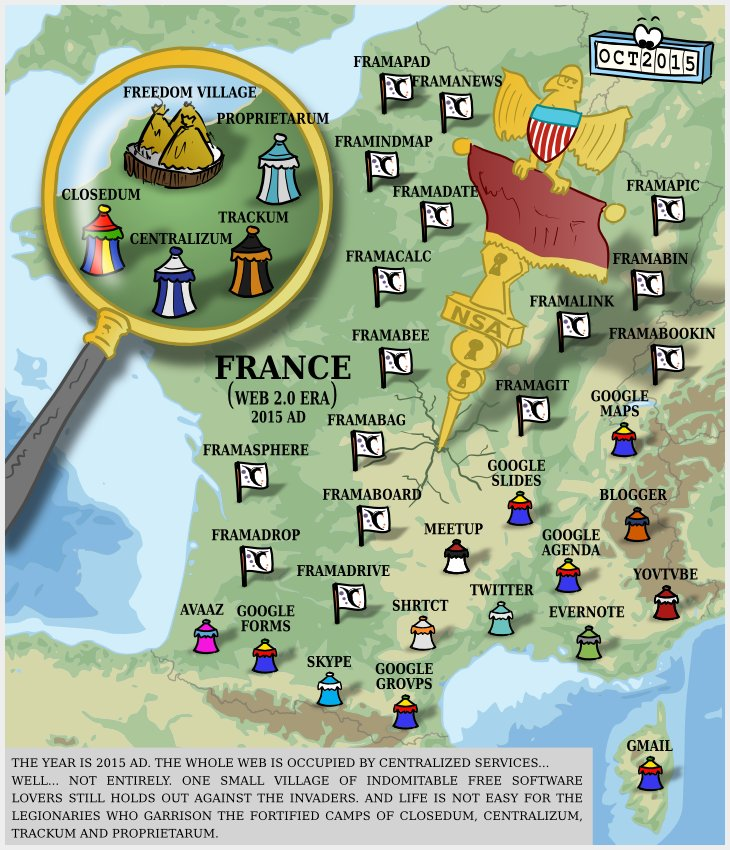
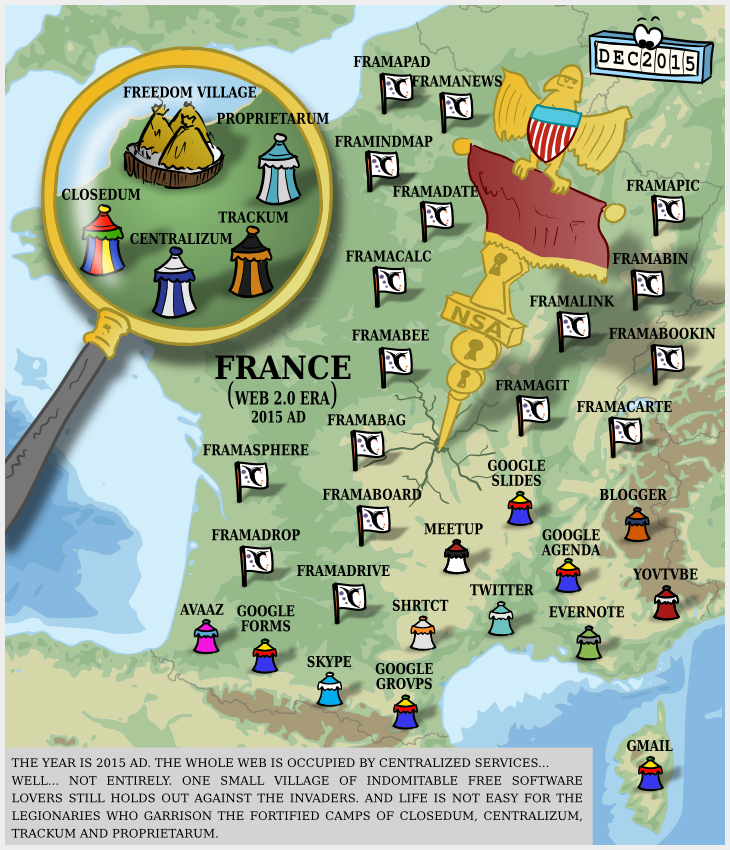
Sortie de Framacarte + Liste des alternatives dans l'entête

diff --git a/i18n/data.fr.php b/i18n/data.fr.php
@@ -321,18 +321,28 @@ $t['list']['css']        = '
 $t['list']['js']         = '
     <script src="'.$l['current'].'js/list.js" type="text/javascript"></script>
     <script src="'.$l['current'].'js/leds.js" type="text/javascript"></script>';
-$t['list']['alt1']       = 'Vous utilisez';
-$t['list']['alt2']       = ' recommande';
-$t['list']['alt3']       = 'repose sur ';
-$t['list']['altp1']      = $t['meta']['F'].' s’est donné comme objectif de <a href="'.$l['DIoL'].'">proposer une trentaine de services libres alternatifs</a>
+
+// Liste des alternatives
+$t['alt']['title']       = 'Liste des alternatives';
+$t['alt']['link']        = $l['current'].'alternatives';
+$t['alt']['desc']        = 'Liste des alternatives en ligne libres, éthiques, décentralisé et solidaires que Framasoft recommande pour dégoogliser internet';
+$t['alt']['css']         = '
+    <link href="'.$l['current'].'css/list.css" rel="stylesheet" type="text/css" />';
+$t['alt']['js']          = '
+    <script src="'.$l['current'].'js/list.js" type="text/javascript"></script>
+    <script src="'.$l['current'].'js/leds.js" type="text/javascript"></script>';
+$t['alt']['alt1']        = 'Vous utilisez';
+$t['alt']['alt2']        = ' recommande';
+$t['alt']['alt3']        = 'repose sur ';
+$t['alt']['altp1']       = $t['meta']['F'].' s’est donné comme objectif de <a href="'.$l['DIoL'].'">proposer une trentaine de services libres alternatifs</a>
                             face aux services qui aspirent nos données et nous enferment.<br>
                             Mais il existe bien d’autres services et acteurs qui œuvrent à dégoogliser internet.';
-$t['list']['altp2']      = 'Voici <a href="#tips" rel="nofollow">ci-dessous</a> une liste qui récapitule et complète les alternatives déjà présentées <a href="'.$l['DIo'].'">sur la page d’accueil</a>.
+$t['alt']['altp2']       = 'Voici <a href="#tips" rel="nofollow">ci-dessous</a> une liste qui récapitule et complète les alternatives déjà présentées <a href="'.$l['DIo'].'">sur la page d’accueil</a>.
                             Elle est inspirée de <a href="https://prism-break.org/fr/">Prism-Break</a> qui propose aussi d’autres logiciels dans des domaines plus pointus.';
-$t['list']['altp3']      = 'Dans cette liste, chaque service est généralement composé d’<b>un site web complexe</b> <span aria-hidden="true">(<i class="fa fa-fw fa-cloud"></i>)</span>
+$t['alt']['altp3']       = 'Dans cette liste, chaque service est généralement composé d’<b>un site web complexe</b> <span aria-hidden="true">(<i class="fa fa-fw fa-cloud"></i>)</span>
                             qui communique avec un <b>logiciel installé sur un ordinateur</b> <span aria-hidden="true">(<i class="fa fa-fw fa-server"></i>)</span> où se trouvent les données personnelles
                             et auxquels on accède via divers <b>outils installés chez soi</b> <span aria-hidden="true">(<i class="fa fa-fw fa-home"></i>)</span>.';
-$t['list']['altp4']      = 'Ainsi, lorsque nous utilisons internet, nous devons <b>accorder notre confiance à différents maillons de la chaîne</b>
+$t['alt']['altp4']       = 'Ainsi, lorsque nous utilisons internet, nous devons <b>accorder notre confiance à différents maillons de la chaîne</b>
                             qui nous relie aux données personnelles placées en ligne.
                             À moins de s’auto-héberger, <b>le <i lang="en">cloud</i> est toujours l’ordinateur de quelqu’un d’autre</b>.
                             Il est donc important de savoir à qui nous faisons confiance et ce que font les logiciels de nos données.';

diff --git a/i18n/data.en.php b/i18n/data.en.php
@@ -278,18 +278,28 @@ $t['list']['css']       = '
 $t['list']['js']        = '
     <script src="'.$l['current'].'js/list.js" typ e="text/javascript"></script>
     <script src="'.$l['current'].'js/leds.js" type="text/javascript"></script>';
-$t['list']['alt1']       = 'Vous utilisez';
-$t['list']['alt2']       = ' recommande';
-$t['list']['alt3']       = 'repose sur ';
-$t['list']['altp1']      = $t['meta']['F'].' s’est donné comme objectif de <a href="'.$l['DIoL'].'">proposer une trentaine de services libres alternatifs</a>
+
+// Liste des alternatives
+$t['alt']['title']       = 'Liste des alternatives';
+$t['alt']['link']        = $l['current'].'alternatives';
+$t['alt']['desc']        = 'Liste des alternatives en ligne libres, éthiques, décentralisé et solidaires que Framasoft recommande pour dégoogliser internet';
+$t['alt']['css']         = '
+    <link href="'.$l['current'].'css/list.css" rel="stylesheet" type="text/css" />';
+$t['alt']['js']          = '
+    <script src="'.$l['current'].'js/list.js" type="text/javascript"></script>
+    <script src="'.$l['current'].'js/leds.js" type="text/javascript"></script>';
+$t['alt']['alt1']        = 'Vous utilisez';
+$t['alt']['alt2']        = ' recommande';
+$t['alt']['alt3']        = 'repose sur ';
+$t['alt']['altp1']       = $t['meta']['F'].' s’est donné comme objectif de <a href="'.$l['DIoL'].'">proposer une trentaine de services libres alternatifs</a>
                             face aux services qui aspirent nos données et nous enferment.<br>
                             Mais il existe bien d’autres services et acteurs qui œuvrent à dégoogliser internet.';
-$t['list']['altp2']      = 'Voici <a href="#tips" rel="nofollow">ci-dessous</a> une liste qui récapitule et complète les alternatives déjà présentées <a href="'.$l['DIo'].'">sur la page d’accueil</a>.
+$t['alt']['altp2']       = 'Voici <a href="#tips" rel="nofollow">ci-dessous</a> une liste qui récapitule et complète les alternatives déjà présentées <a href="'.$l['DIo'].'">sur la page d’accueil</a>.
                             Elle est inspirée de <a href="https://prism-break.org/fr/">Prism-Break</a> qui propose aussi d’autres logiciels dans des domaines plus pointus.';
-$t['list']['altp3']      = 'Dans cette liste, chaque service est généralement composé d’<b>un site web complexe</b> <span aria-hidden="true">(<i class="fa fa-fw fa-cloud"></i>)</span>
+$t['alt']['altp3']       = 'Dans cette liste, chaque service est généralement composé d’<b>un site web complexe</b> <span aria-hidden="true">(<i class="fa fa-fw fa-cloud"></i>)</span>
                             qui communique avec un <b>logiciel installé sur un ordinateur</b> <span aria-hidden="true">(<i class="fa fa-fw fa-server"></i>)</span> où se trouvent les données personnelles
                             et auxquels on accède via divers <b>outils installés chez soi</b> <span aria-hidden="true">(<i class="fa fa-fw fa-home"></i>)</span>.';
-$t['list']['altp4']      = 'Ainsi, lorsque nous utilisons internet, nous devons <b>accorder notre confiance à différents maillons de la chaîne</b>
+$t['alt']['altp4']       = 'Ainsi, lorsque nous utilisons internet, nous devons <b>accorder notre confiance à différents maillons de la chaîne</b>
                             qui nous relie aux données personnelles placées en ligne.
                             À moins de s’auto-héberger, <b>le <i lang="en">cloud</i> est toujours l’ordinateur de quelqu’un d’autre</b>.
                             Il est donc important de savoir à qui nous faisons confiance et ce que font les logiciels de nos données.';

diff --git a/alt.php b/alt.php
@@ -2,7 +2,7 @@
 
 require('i18n.php');
 
-$page = 'list';
+$page = 'alt';
 
 $tips = '';
 
@@ -138,8 +138,8 @@ foreach($c as $k => $v) {
             <table class="table table-hover">
                 <thead>
                     <tr>
-                        <th class="text-center" scope="col">'.$t['list']['alt1'].'</th>
-                        <th class="text-center" scope="col">'.$t['meta']['F'].' '.$t['list']['alt2'].'</th>
+                        <th class="text-center" scope="col">'.$t['alt']['alt1'].'</th>
+                        <th class="text-center" scope="col">'.$t['meta']['F'].' '.$t['alt']['alt2'].'</th>
                     </tr>
                 </thead>
                 <tbody>
@@ -158,15 +158,15 @@ include('header.php');
 ?>
         <div class="row" id="alt-intro">
             <div class="container ombre">
-                <p><?php echo $t['list']['altp1']; ?></p>
+                <p><?php echo $t['alt']['altp1']; ?></p>
 
-                <p><?php echo $t['list']['altp2']; ?></p>
+                <p><?php echo $t['alt']['altp2']; ?></p>
 
-                <p><?php echo $t['list']['altp3']; ?></p>
+                <p><?php echo $t['alt']['altp3']; ?></p>
 
                 <p class="text-center" id="network"><a href="#home"><i class="fa fa-fw fa-home"></i></a> → <i class="fa fa-fw fa-cloud"></i> → <i class="fa fa-fw fa-server"></i></p>
 
-                <p><?php echo $t['list']['altp4']; ?></p>
+                <p><?php echo $t['alt']['altp4']; ?></p>
             </div>
         </div>
 

diff --git a/i18n/data.php b/i18n/data.php
@@ -271,10 +271,10 @@ $d[$k]['S']      = '<a href="https://bitbucket.org/yohanboniface/umap">uMap</a>'
 $d[$k]['F']      = '<a href="'.$d[$k]['FL'].'"><b class="violet">Frama</b><b class="vert">carte</b></a>';
 $d[$k]['name']   = 'Google Maps';
 $d[$k]['eq']     = 'Bing Maps, ViaMichelin, Mappy';
-$d[$k]['altOn']  = '<a href="https://www.openstreetmap.org/">OpenStreetMap</a>, <a href="https://umap.openstreetmap.org">uMap</a>';
+$d[$k]['altOn']  = '<a href="https://www.openstreetmap.org/">OpenStreetMap</a>, <a href="http://umap.openstreetmap.fr">uMap</a>';
 $d[$k]['altOff'] = $d[$k]['S'];
 $d[$k]['pos']    = '620,420,40';
-$d[$k]['FDate']  = '2015';
+$d[$k]['FDate']  = '<a href="http://framablog.org/2015/12/">2015</a>'; // à actualiser quand l'article sera paru
 $d[$k]['cat']    = 'geo';
 
 // Google Reader
@@ -594,9 +594,9 @@ $d[$k]['FDate']   = '2015';
  **********************/
 // $potion = alternatives en préparation
 // $fight = alternatives opérationnelles
-$potion  = ['avaaz','gslides','skype','youtube','1000minds','gforms','gmaps','transifex'];
+$potion  = ['avaaz','gslides','skype','youtube','1000minds','gforms','transifex'];
 $fight   = ['bubblus','doodle','dropbox','gdocs','greader','gspreadsheet',
-            'pixlr','facebook','pocket','bitly','github','gbooks',
+            'pixlr','facebook','pocket','bitly','github','gbooks','gmaps',
             'gsearch','imgur','kongregate','pastebin','trello','wetransfer'];
 
 /**********************
